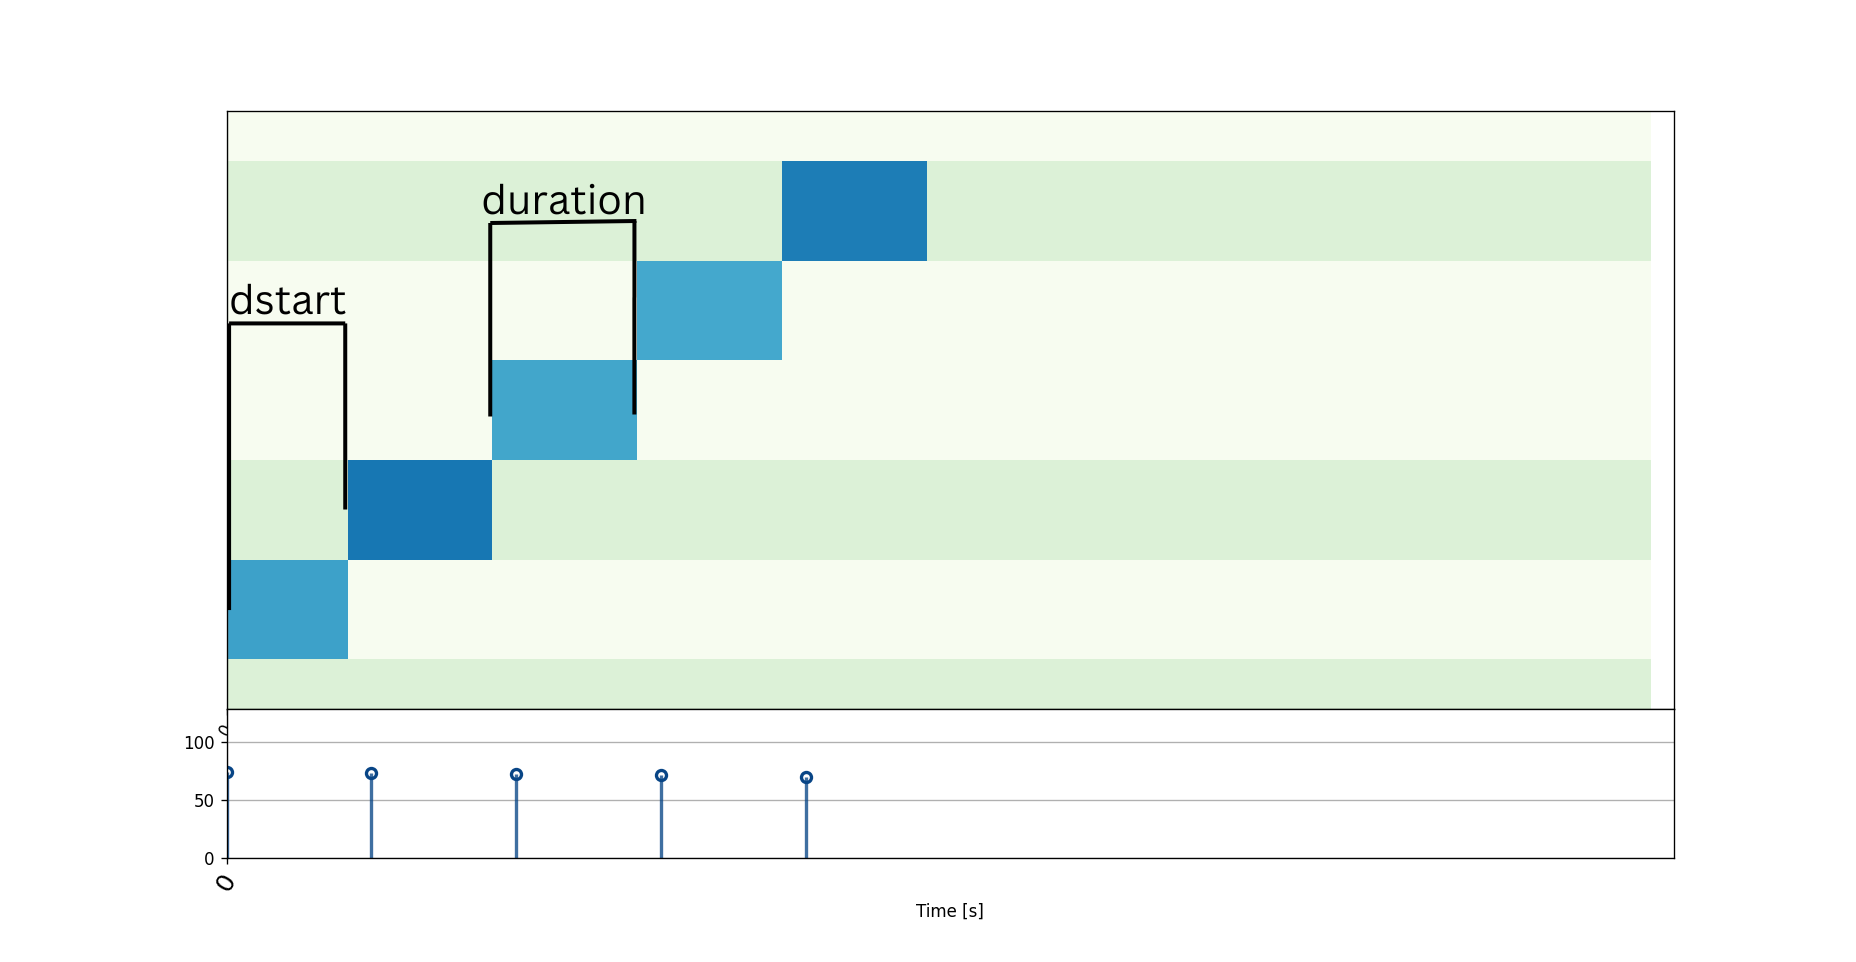
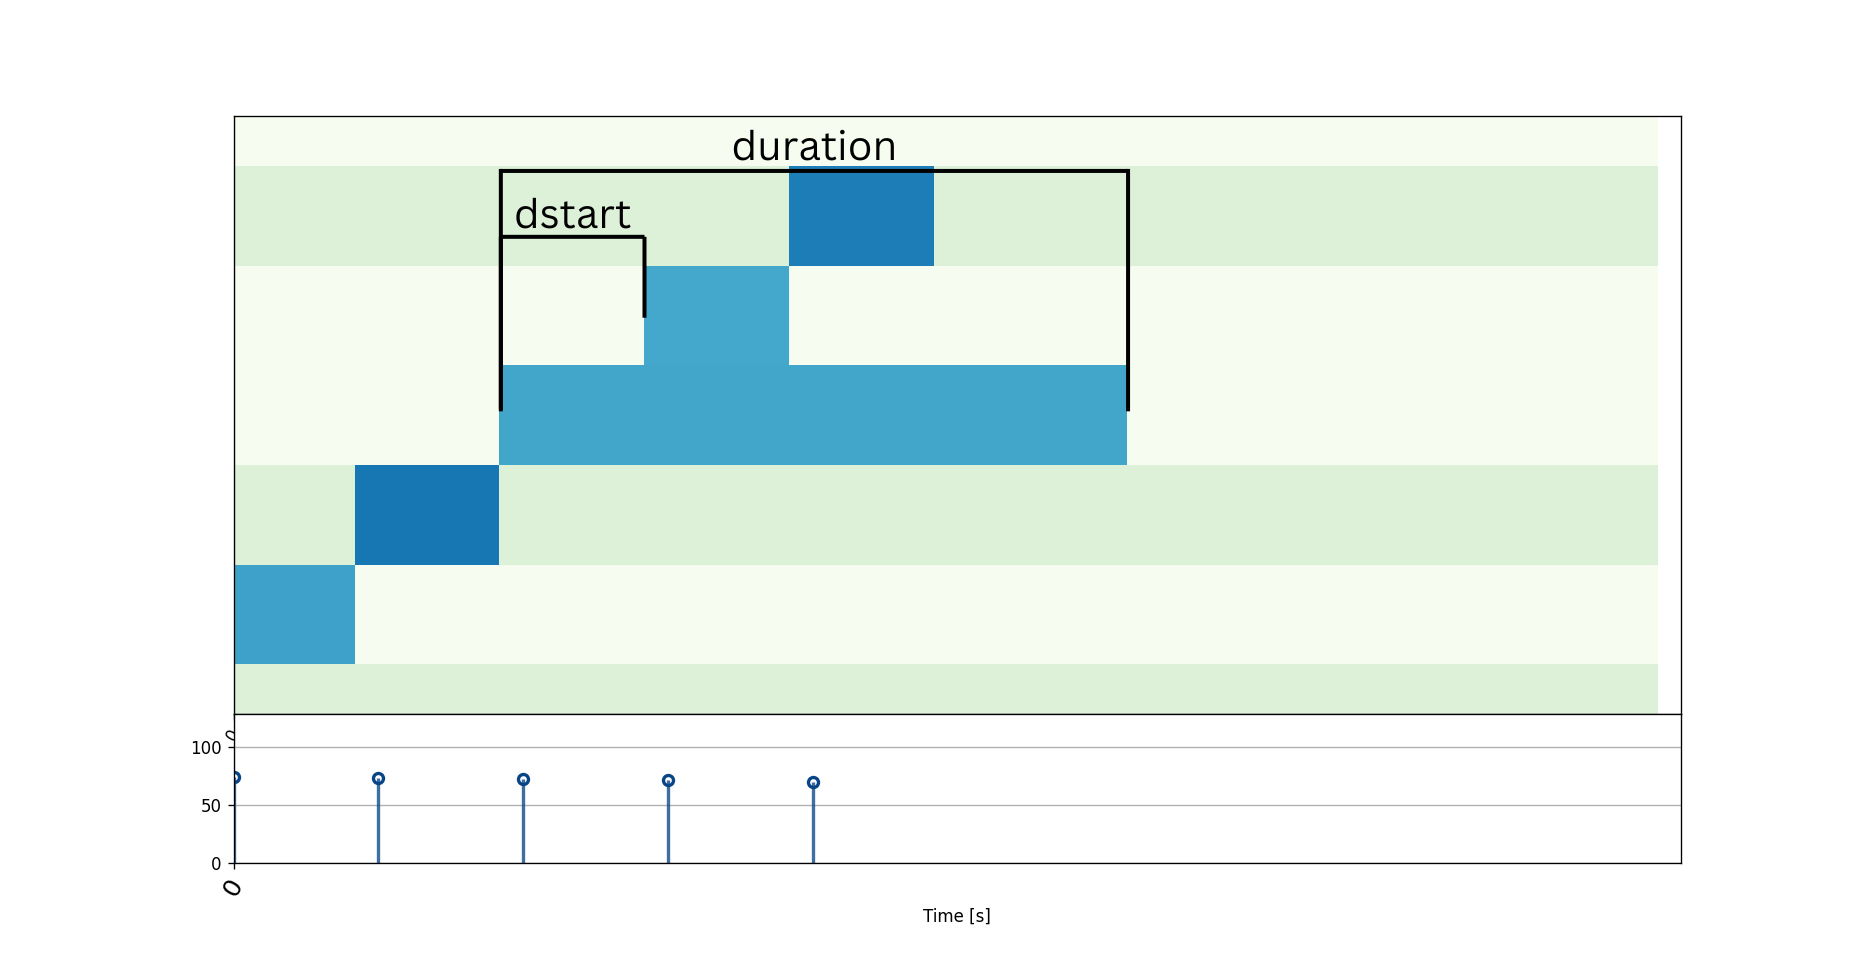
better dstart_and_duration graphic

diff --git a/midi_basics/spectrogram_and_pianoroll.py b/midi_basics/spectrogram_and_pianoroll.py
@@ -45,7 +45,7 @@ def plot_spectrogram():
 
 
 def plot_pianoroll():
-    piece = ff.MidiPiece.from_file(path="data/midi/generated_midi.mid")[53:58]
+    piece = ff.MidiPiece.from_file(path="data/midi/generated_midi.mid")
     figres = FigureResolution(1920, 1080, dpi=120)
     fig = ff.view.draw_pianoroll_with_velocities(midi_piece=piece, figres=figres)
     return fig
@@ -54,6 +54,5 @@ def plot_pianoroll():
 if __name__ == "__main__":
     spec = plot_spectrogram()
     pianoroll = plot_pianoroll()
-    plt.show()
-    # spec.savefig("data/img/spectrogram.png")
-    # pianoroll.savefig("data/img/pianoroll.png")
+    spec.savefig("data/img/spectrogram.png")
+    pianoroll.savefig("data/img/pianoroll.png")
